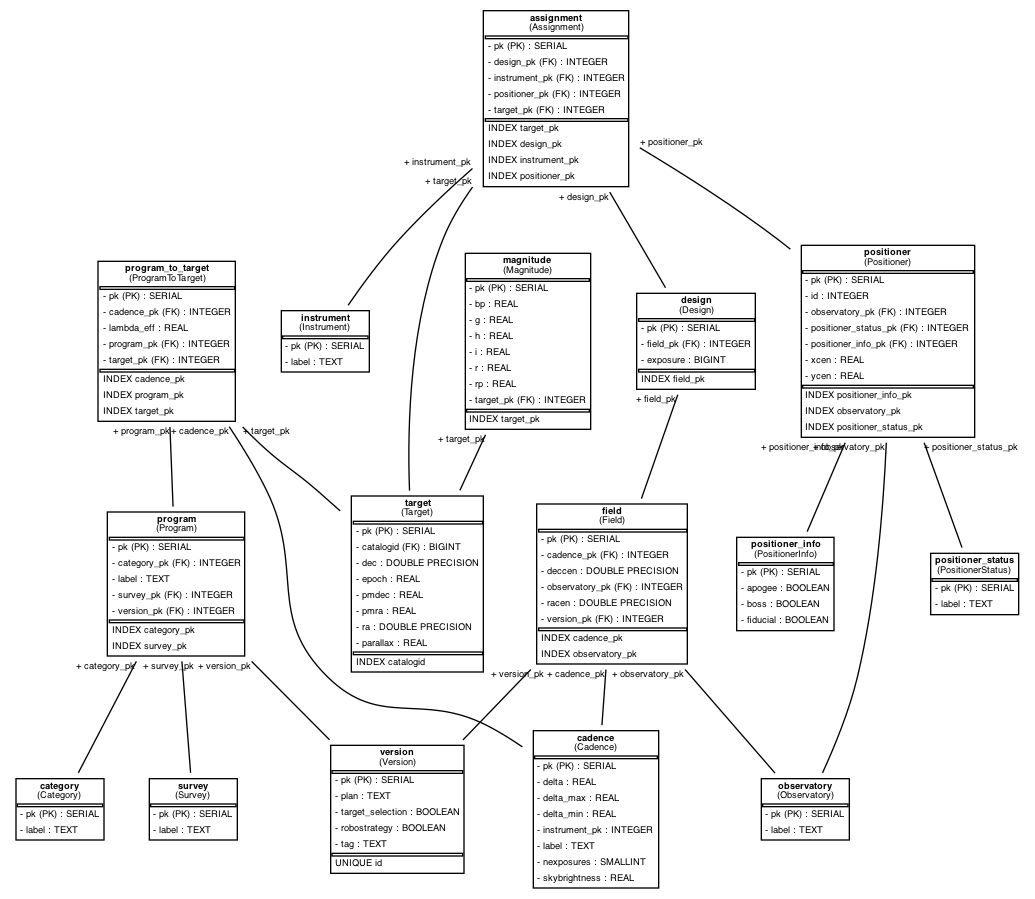
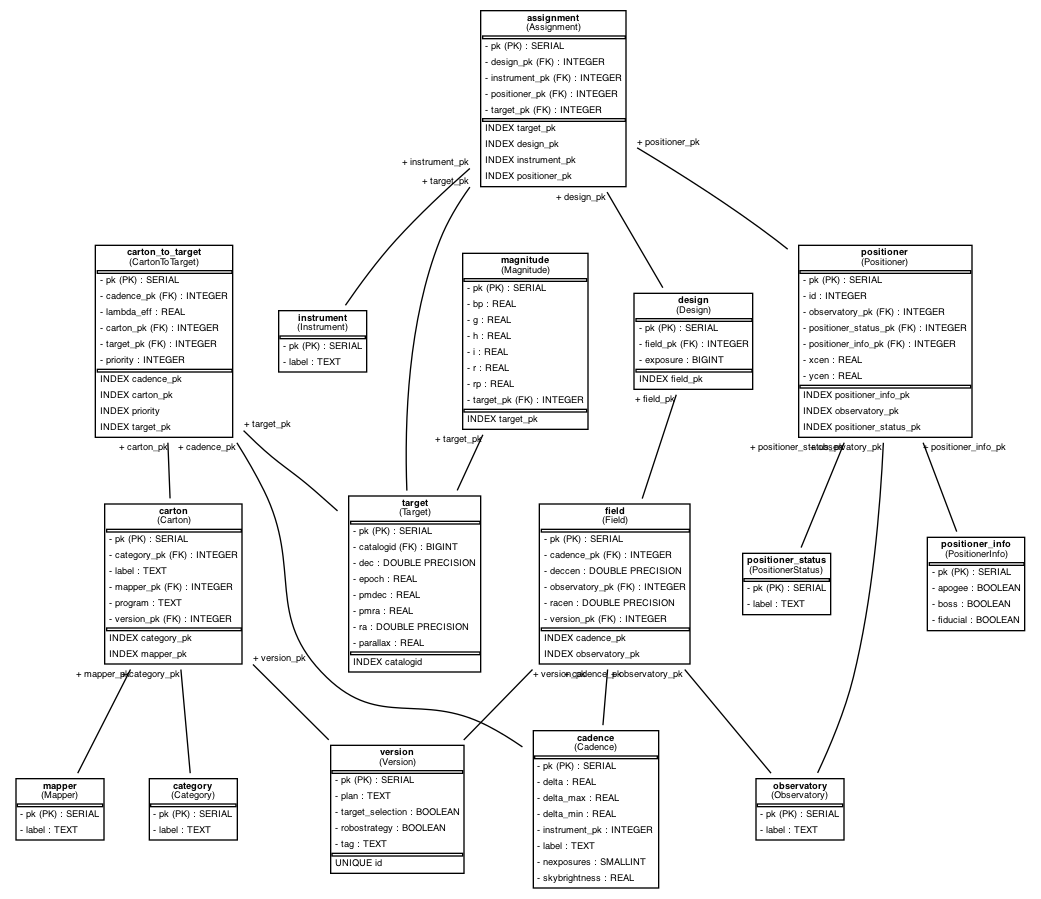
Rename program to carton and add priority in targetdb

diff --git a/python/sdssdb/peewee/sdss5db/targetdb.py b/python/sdssdb/peewee/sdss5db/targetdb.py
@@ -24,7 +24,7 @@ class TargetdbBase(BaseModel):
 
 
 AssignmentDeferred = DeferredThroughModel()
-ProgramToTargetDeferred = DeferredThroughModel()
+CartonToTargetDeferred = DeferredThroughModel()
 
 
 class Version(TargetdbBase):
@@ -145,29 +145,30 @@ class Category(TargetdbBase):
         table_name = 'category'
 
 
-class Survey(TargetdbBase):
+class Mapper(TargetdbBase):
     label = TextField(null=True)
     pk = AutoField()
 
     class Meta:
-        table_name = 'survey'
+        table_name = 'mapper'
 
 
-class Program(TargetdbBase):
+class Carton(TargetdbBase):
     category = ForeignKeyField(column_name='category_pk',
                                field='pk',
                                model=Category)
     label = TextField()
     pk = AutoField()
-    survey = ForeignKeyField(column_name='survey_pk',
+    mapper = ForeignKeyField(column_name='mapper_pk',
                              field='pk',
-                             model=Survey)
+                             model=Mapper)
+    program = TextField()
     version = ForeignKeyField(column_name='version_pk',
                               field='pk',
                               model=Version)
 
     class Meta:
-        table_name = 'program'
+        table_name = 'carton'
 
 
 class Target(TargetdbBase):
@@ -191,7 +192,7 @@ class Target(TargetdbBase):
                                   through_model=AssignmentDeferred,
                                   backref='targets')
     cadences = ManyToManyField(Cadence,
-                               through_model=ProgramToTargetDeferred,
+                               through_model=CartonToTargetDeferred,
                                backref='targets')
     parallax = FloatField(null=True)
 
@@ -218,22 +219,23 @@ class Assignment(TargetdbBase):
         table_name = 'assignment'
 
 
-class ProgramToTarget(TargetdbBase):
+class CartonToTarget(TargetdbBase):
     cadence = ForeignKeyField(Cadence,
                               column_name='cadence_pk',
                               field='pk')
     lambda_eff = FloatField(null=True)
     pk = AutoField()
-    program = ForeignKeyField(Program,
-                              column_name='program_pk',
-                              field='pk')
+    carton = ForeignKeyField(Carton,
+                             column_name='carton_pk',
+                             field='pk')
     target = ForeignKeyField(Target,
                              column_name='target_pk',
                              field='pk',
                              on_delete='CASCADE')
+    priority = IntegerField()
 
     class Meta:
-        table_name = 'program_to_target'
+        table_name = 'carton_to_target'
 
 
 class Magnitude(TargetdbBase):
@@ -254,4 +256,4 @@ class Magnitude(TargetdbBase):
 
 
 AssignmentDeferred.set_model(Assignment)
-ProgramToTargetDeferred.set_model(ProgramToTarget)
+CartonToTargetDeferred.set_model(CartonToTarget)
